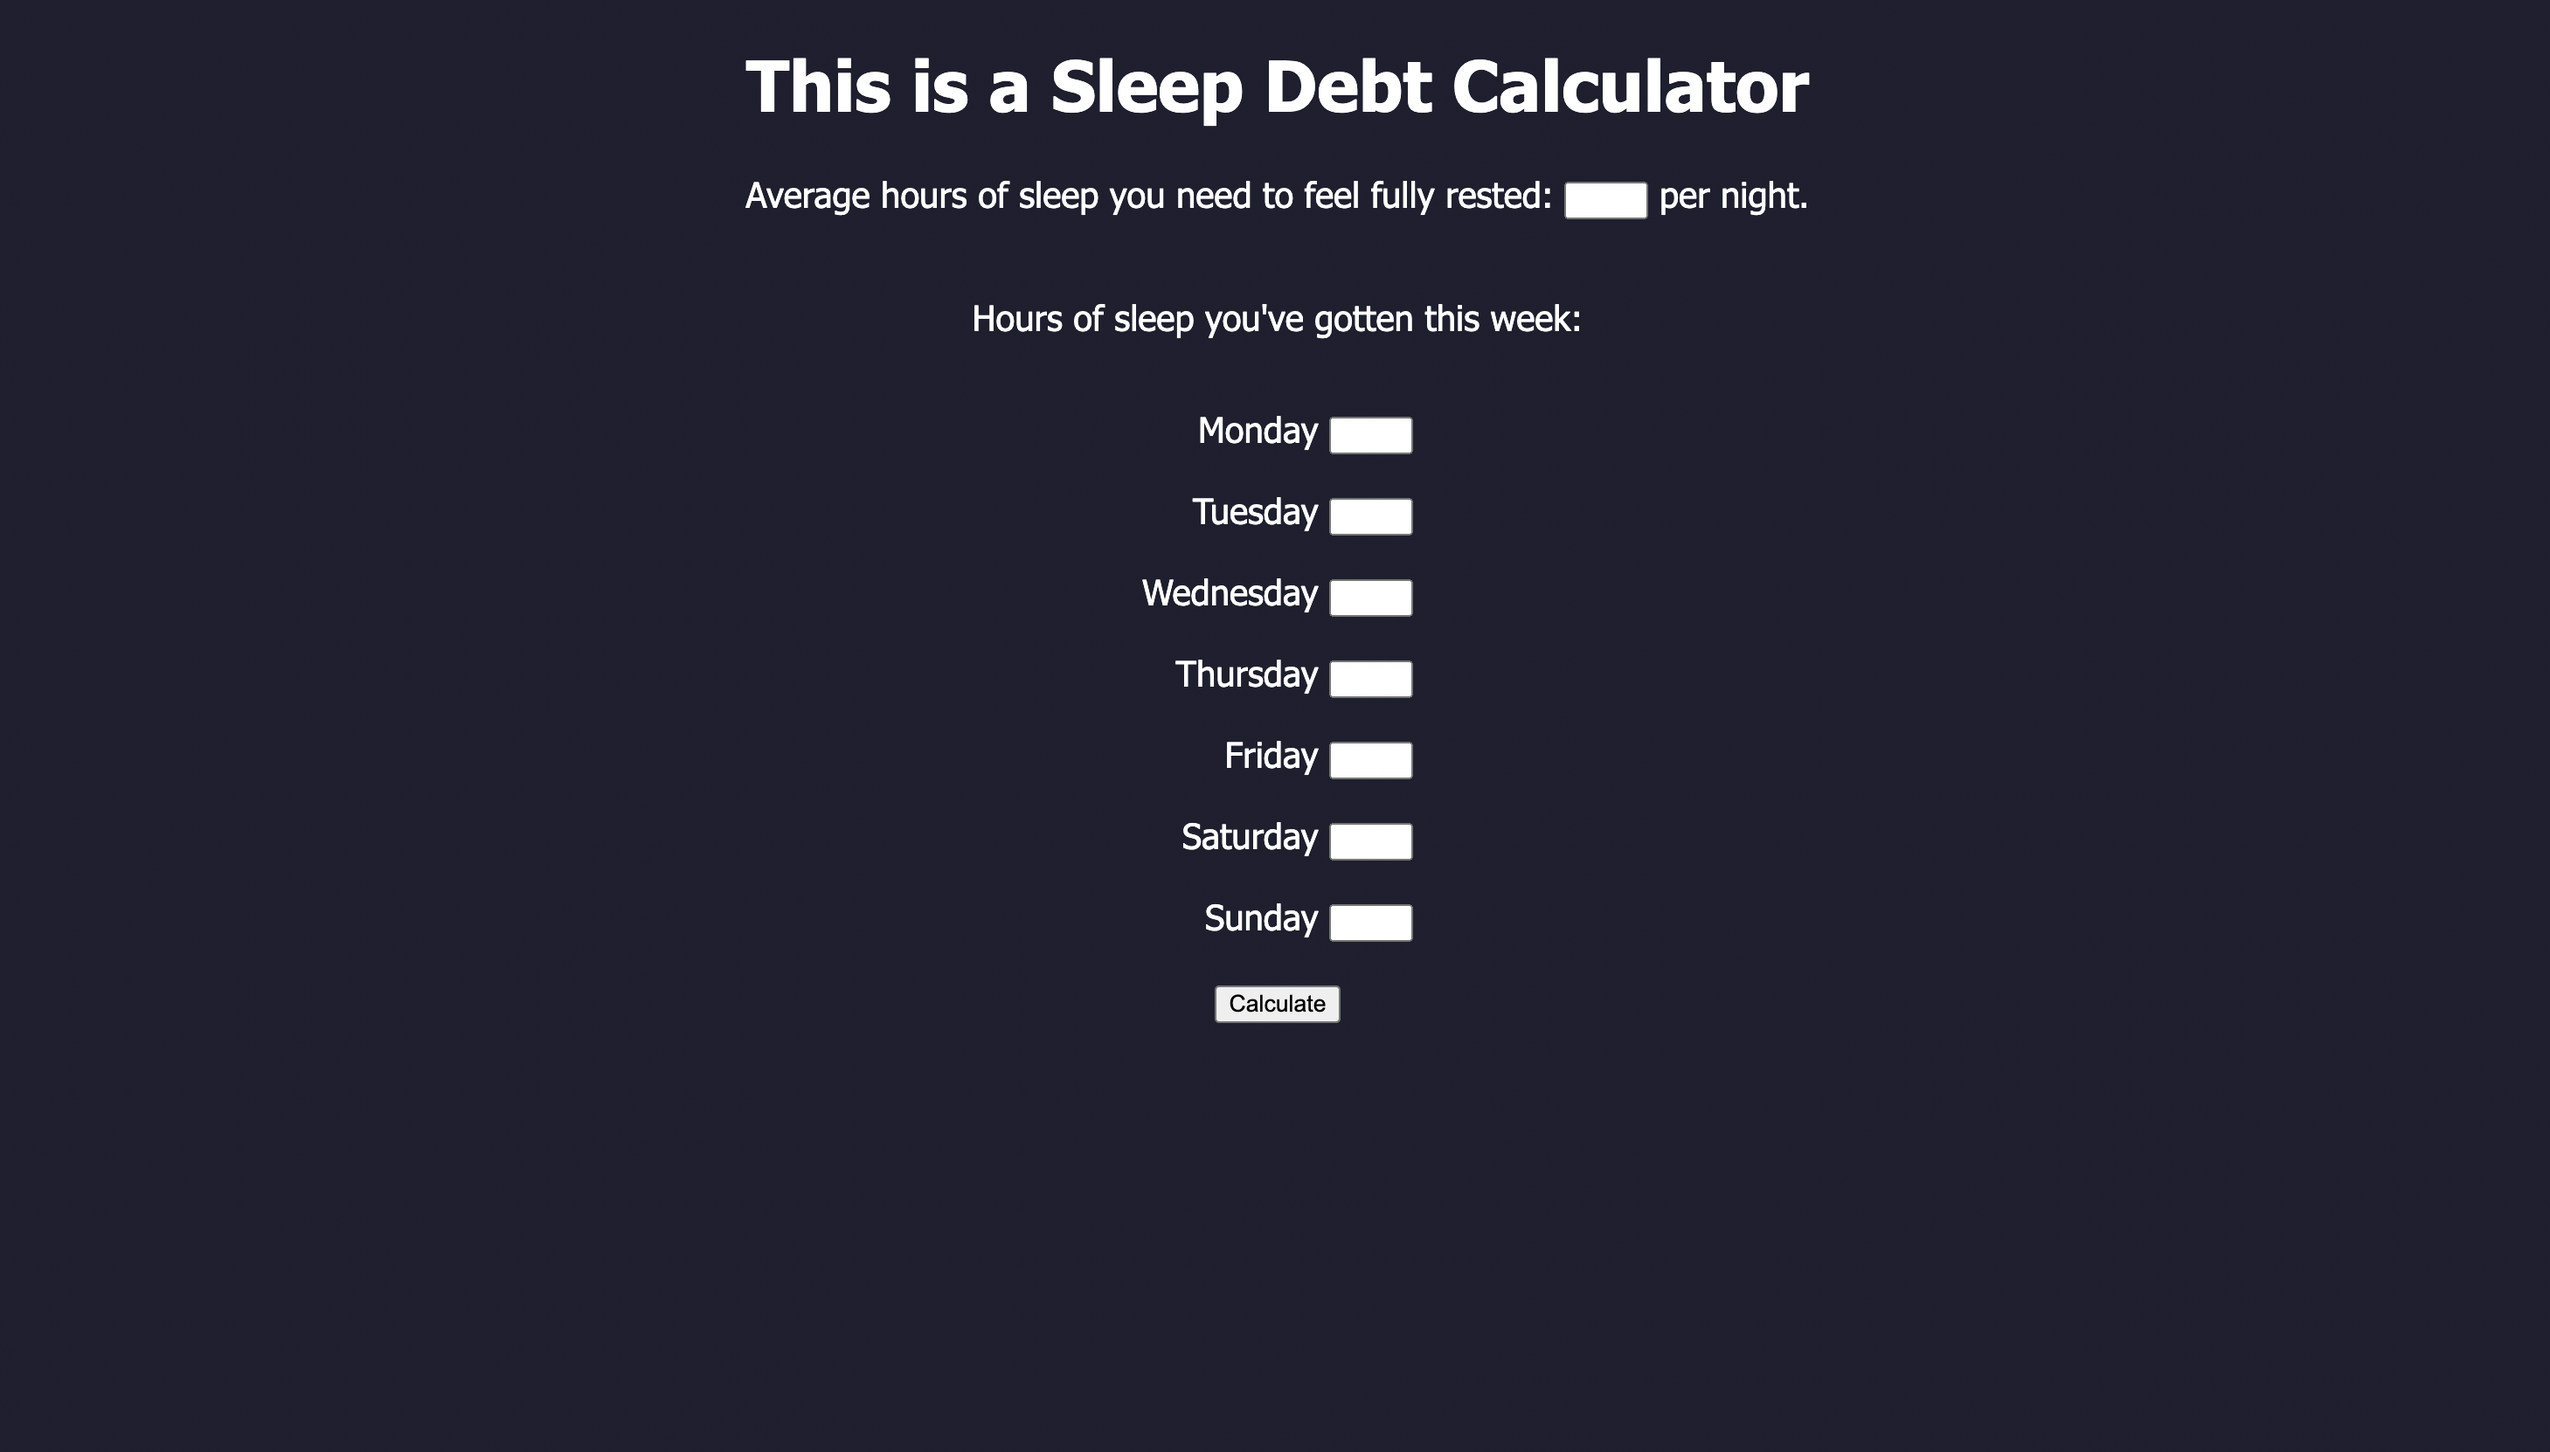
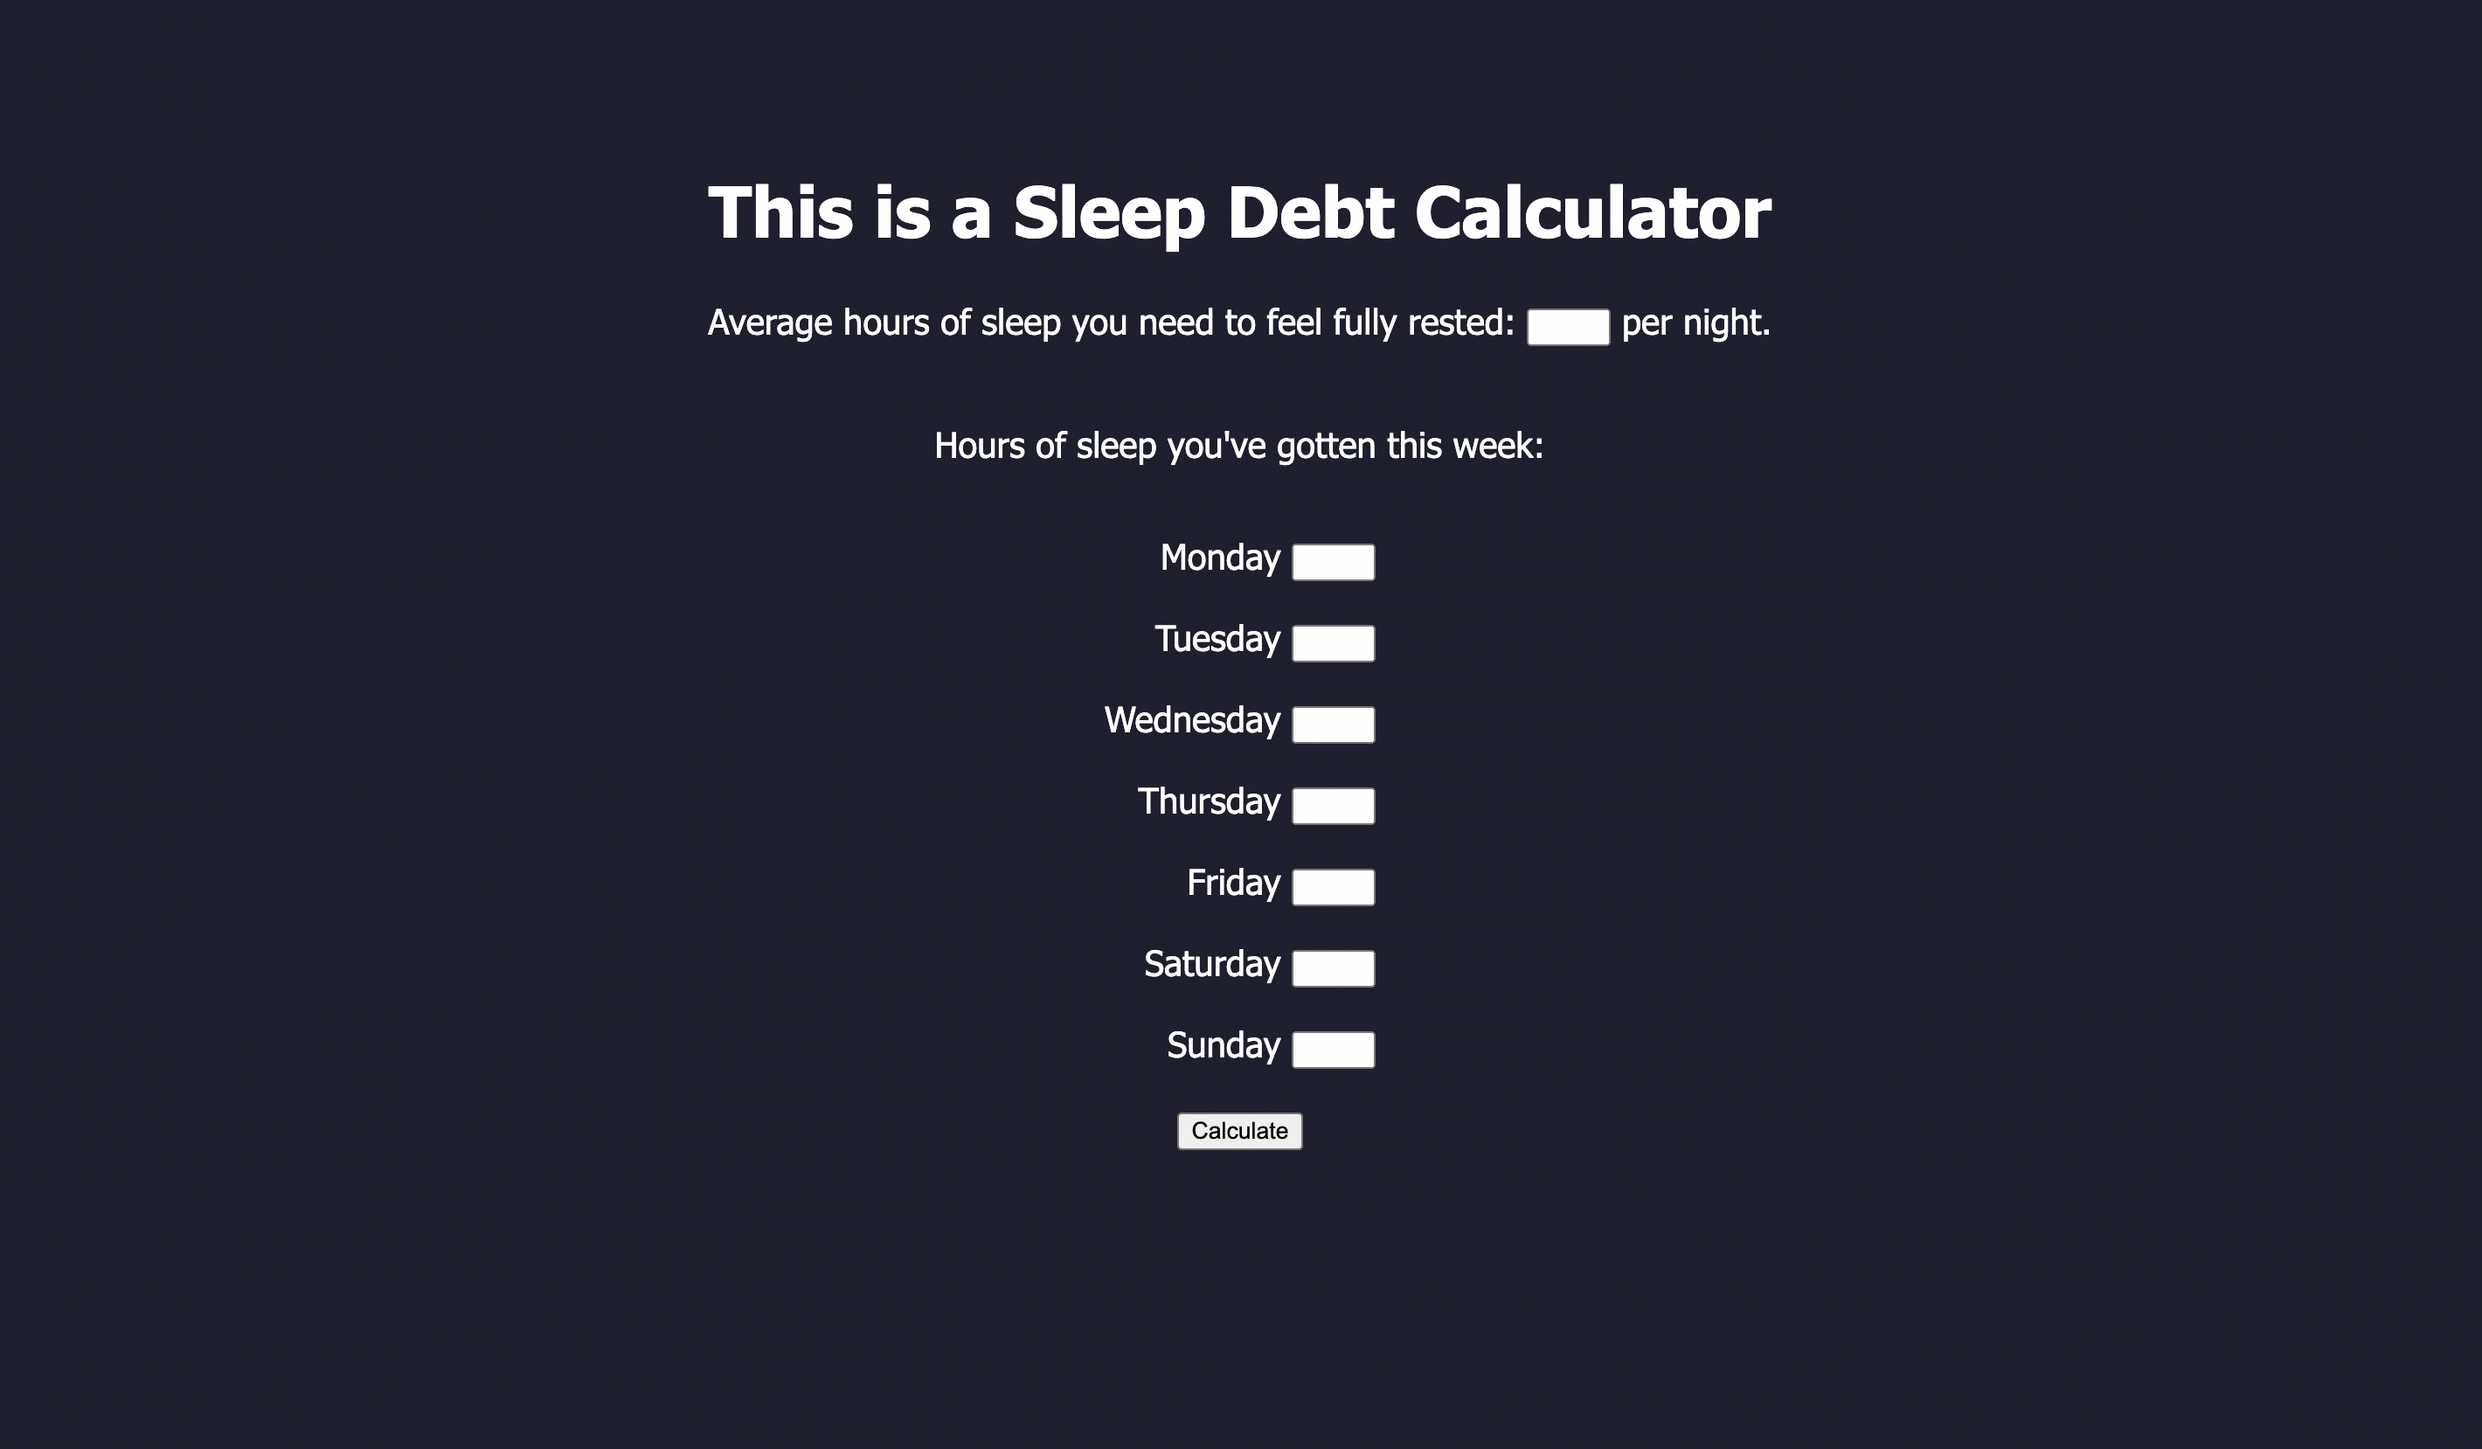
screen size adjustments

diff --git a/index.html b/index.html
@@ -35,9 +35,11 @@
           <br />
           Earlier this year he arrived at the base of the programming mountain,
           looked up and began to climb. The steps of HTML, CSS, Javascript, GIT
-          and others were thoroughly approached. After completing various
-          intermediate online courses, he's ready to meet at base camp and
-          contribute to the programming world.
+          and others were thoroughly approached.
+          <br />
+          <br />
+          After completing various intermediate online courses, he's ready to
+          meet at base camp and contribute to the programming world.
           <br />
           <br />
         </p>
@@ -72,7 +74,11 @@
           /></a>
           <p class="project-desc">
             This app will translate English into Whale Speech.
+            <br />
+            <i> (Javascript) </i>
           </p>
+          </p>
+          
         </div>
 
         <div id="sleep">
@@ -84,18 +90,23 @@
           /></a>
           <p class="project-desc">
             This will calculate if you need more sleep each week.
+            <br />
+            <i> (Javascript) </i>
           </p>
         </div>
 
         <div id="puffwizz">
-          <p class="project-text">Puffwizz NFT</p>
-          <a href="https://gunndroid.github.io/puffwizz/" target="_blank"
+          <p class="project-text">NFT Landing Page</p>
+          <a
+            style="pointer-events: none"
+            href="https://gunndroid.github.io/puffwizz/"
+            target="_blank"
             ><img class="project-images" src="/images/puffwizz.png"
           /></a>
           <p class="project-desc">
             This is the NFT project that started my coding journey.
             <br />
-            <i>(in progress)</i>
+            <i>(React, in progress)</i>
           </p>
         </div>
       </div>

diff --git a/css/style.css b/css/style.css
@@ -36,7 +36,8 @@ a:hover {
   align-items: center;
   justify-content: center;
   justify-content: space-around;
-  margin-left: 20px;
+  margin-left: 0px;
+  margin-right: 20px;
 }
 
 #about {
@@ -174,4 +175,29 @@ body {
 ::selection {
   color: lightskyblue;
   background: darkblue;
+}
+
+@media only screen and (max-width: 600px) {
+  #about-section {
+    display: flex;
+    flex-direction: column;
+    align-items: center;
+    justify-content: center;
+    justify-content: space-around;
+    margin-left: 0;
+  }
+
+  #projects {
+    display: flex;
+    flex-direction: column;
+    justify-content: space-around;
+    align-items: center;
+    text-align: center;
+    margin: 50px;
+  }
+
+  #about {
+    width: 100%;
+    display: block;
+  }
 }
